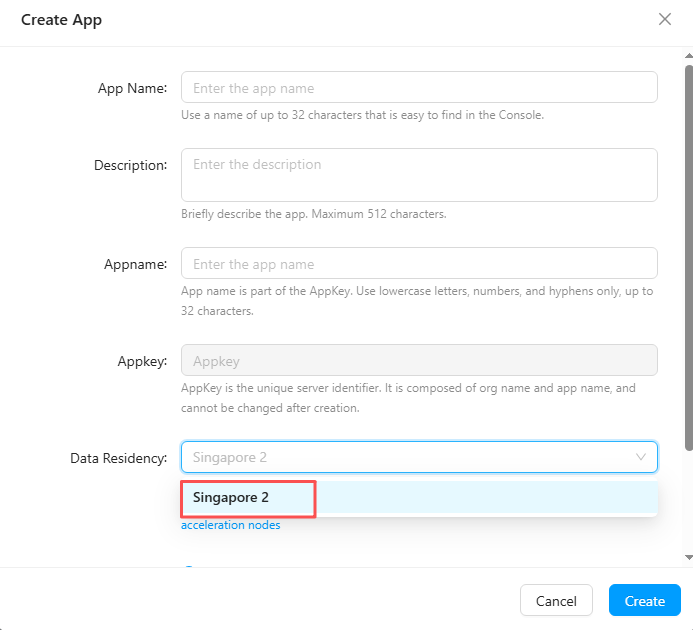
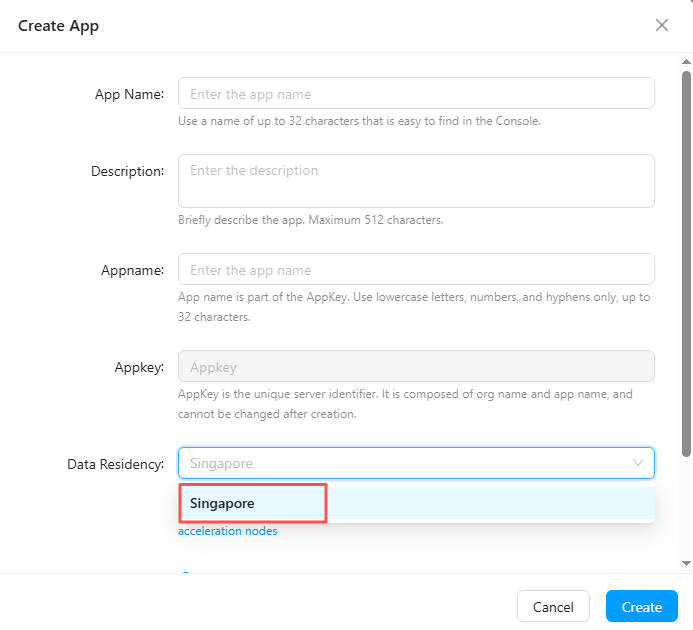
Modify data center settings and images

diff --git a/docs/product/security_best_practices.md b/docs/product/security_best_practices.md
@@ -15,14 +15,6 @@ For details about EasyIM's user privacy policy, see [Easemob User Privacy Policy
 
 To comply with the laws and regulations of different countries and regions, EasyIM supports service region isolation to ensure that user privacy data in a specified region does not cross regional borders.
 
-EasyIM has data centers in the following regions. Each data center serves its corresponding region:
-
-| Data center | Location           | Service region |
-|:---------|:---------------|:---------|
-| Singapore 1/Singapore 2   | Singapore         | Southeast Asia   |
-| Germany 2    | Frankfurt, Germany | Europe     |
-| US East 1     | Virginia, United States | North America     |
-
 To use EasyIM, you must specify a data center. After you select a data center, RESTful requests to the message server and SDK API requests are directed to that data center, where your business data is also stored. You cannot change the selected data center. EasyIM does not support data migration across service regions.
 
 ## Token authentication

diff --git a/docs/product/data_center.md b/docs/product/data_center.md
@@ -4,7 +4,7 @@ EasyIM provides data centers and acceleration nodes to ensure stable and fast gl
 
 ## Data center
 
-When creating an app in the [EasyIM Console](https://console.easyim.ai/user/login), you can select the data center **Singapore 2**. 
+When creating an app in the [EasyIM Console](https://console.easyim.ai/user/login), you can select the data center **Singapore**. 
 
 ![img](/images/product/data_center_selection.png)
 
